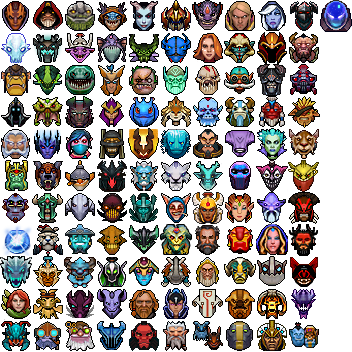
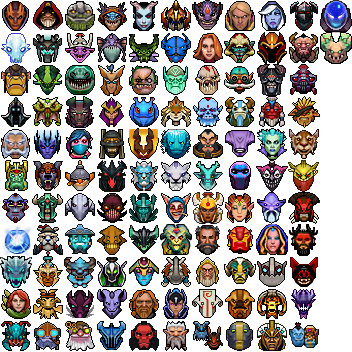
Pit Lord definitions.

Changed region(s): [[0.9062, 0.0938, 1.0, 0.1875], [0.7188, 0.7188, 0.8125, 0.8125]]

diff --git a/data/dota-data-688c.js b/data/dota-data-688c.js
@@ -3080,6 +3080,33 @@ DotaData.addVersion( version,
 			"MovementSpeed": 295,
 			"TurnRate": 0.4,
 			"Team": "Dire"
+		},
+		"abyssal_underlord": {
+			"Name": "Underlord",
+			"Enabled": 1,
+			"Ability1": "abyssal_underlord_firestorm",
+			"Ability2": "abyssal_underlord_pit_of_malice",
+			"Ability3": "abyssal_underlord_atrophy_aura",
+			"Ability4": "abyssal_underlord_dark_rift",
+			"Ability5": "attribute_bonus",
+			//"Ability5": "abyssal_underlord_cancel_dark_rift",
+			"AttackPoint": 0.45,
+			"AttackType": "Melee",
+			"DamageMax": 43,
+			"DamageMin": 37,
+			"Range": 150,
+			"AttackRate": 1.7,
+			"StrengthBase": 25,
+			"StrengthGain": 2.6,
+			"AgilityBase": 12,
+			"AgilityGain": 1.3,
+			"IntelligenceBase": 17,
+			"IntelligenceGain": 2.6,
+			"Type": "Strength",
+			"Armor": 2,
+			"MovementSpeed": 305,
+			"TurnRate": 0.6,
+			"Team": "Dire"
 		}
 	}, // end of hero definition
 	"Items": {
@@ -7424,9 +7451,26 @@ DotaData.addVersion( version,
 			"Class": "Ultimate",
 			"LevelMax": 3,
 			"Restrictions": [6, 11, 16],
-			"Cooldown": function(){ return 45 - this.Level * 5 }
+			"Cooldown": function(){ return 45 - this.Level * 5 },
 		},
-
+		"abyssal_underlord_firestorm": {
+			"Name": "Firestorm",
+			"Cooldown": 12,
+			"ManaCost": function(){ return 90 + this.Level * 10},
+		},
+		"abyssal_underlord_pit_of_malice": {
+			"Name": "Pit of Malice",
+			"Cooldown": function(){ return 24 - this.Level * 3},
+			"ManaCost": function(){ return 85 + this.Level * 15},
+		},
+		"abyssal_underlord_atrophy_aura": {
+			"Name": "Atrophy aura",
+		},
+		"abyssal_underlord_dark_rift": {
+			"Name": "Dark rift",
+			"Cooldown": function(){ return 140 - this.Level * 10},
+			"ManaCost": function(){ return this.Level * 75},
+		},
 
 
 	},

diff --git a/libraries/PropertyProcessor.js b/libraries/PropertyProcessor.js
@@ -20,6 +20,9 @@ PropertyProcessor.addType = function(handlerName, handlerCallback) {
 	}
 }
 
+/**
+ * Add a definition how to handle a property
+ */
 PropertyProcessor.addProperty = function(propertyName, handlerName) {
 	PropertyProcessor.properties[propertyName] = handlerName
 }
@@ -33,27 +36,35 @@ PropertyProcessor.calculate = function(propName, oldVal, newVal) {
 	return PropertyProcessor.types["number"](oldVal, newVal)
 }
 
-// calculating sums for almost everything
+/**
+ * Handler for summing things. Default handler.
+ */
 PropertyProcessor.addType("number",
 	function(oldVal, newVal) {
 		return oldVal + newVal
 });
 
-// evasion, magic resistance
+/**
+ * Diminishing return percentage calculation
+ */
 PropertyProcessor.addType("diminishing",
 	function(oldVal, newVal) {
 		return oldVal + (1 - oldVal) * newVal
 })
 
-// used for melee/range overrides
+/**
+ * Overriding values
+ */
 PropertyProcessor.addType("override",
 	function(oldVal, newVal) {
 		return newVal
 })
 
-// Used for Aghanim's check
+/**
+ * Single needed truth detection
+ */
 PropertyProcessor.addType("contains",
 	function(oldVal, newVal) {
-		return oldVal || newVal
+		return oldVal || !!newVal
 })
 

diff --git a/hero-picker/hero-picker.js b/hero-picker/hero-picker.js
@@ -72,7 +72,13 @@ window.addEventListener("DOMContentLoaded", function(e){
 			}
 
 			var heroDataObject = DotaData.getCurrentHeroList(),
-				heroList = Object.keys(heroDataObject).sort();
+				heroList = Object.keys(heroDataObject).sort(function heroNameSorter(a,b){
+					if (heroDataObject[a].Name < heroDataObject[b].Name)
+						return -1;
+					if (heroDataObject[a].Name > heroDataObject[b].Name)
+						return 1;
+					return 0
+				});
 			for (let heroId of heroList) {
 				var hero = heroDataObject[heroId];
 				if ( hero.Enabled <= 0 )

diff --git a/item-picker/item-picker.css b/item-picker/item-picker.css
@@ -1,6 +1,3 @@
-#item-picker {
-	
-}
 
 #item-picker-base {
 	border-bottom: none;
@@ -9,7 +6,8 @@
 }
 
 #item-picker-base th {
-	margin-bottom: -4px;
+/*	margin-bottom: -4px;*/
+	background-color: black;
 }
 
 #item-picker-base td, #item-picker-base th {

diff --git a/images/mini-heroes.css b/images/mini-heroes.css
@@ -341,3 +341,6 @@ background-position: -0px -128px;
 .mheroicon.arc_warden{
 background-position: -320px -0px;
 }
+.mheroicon.abyssal_underlord{
+background-position: -320px -32px;
+}
